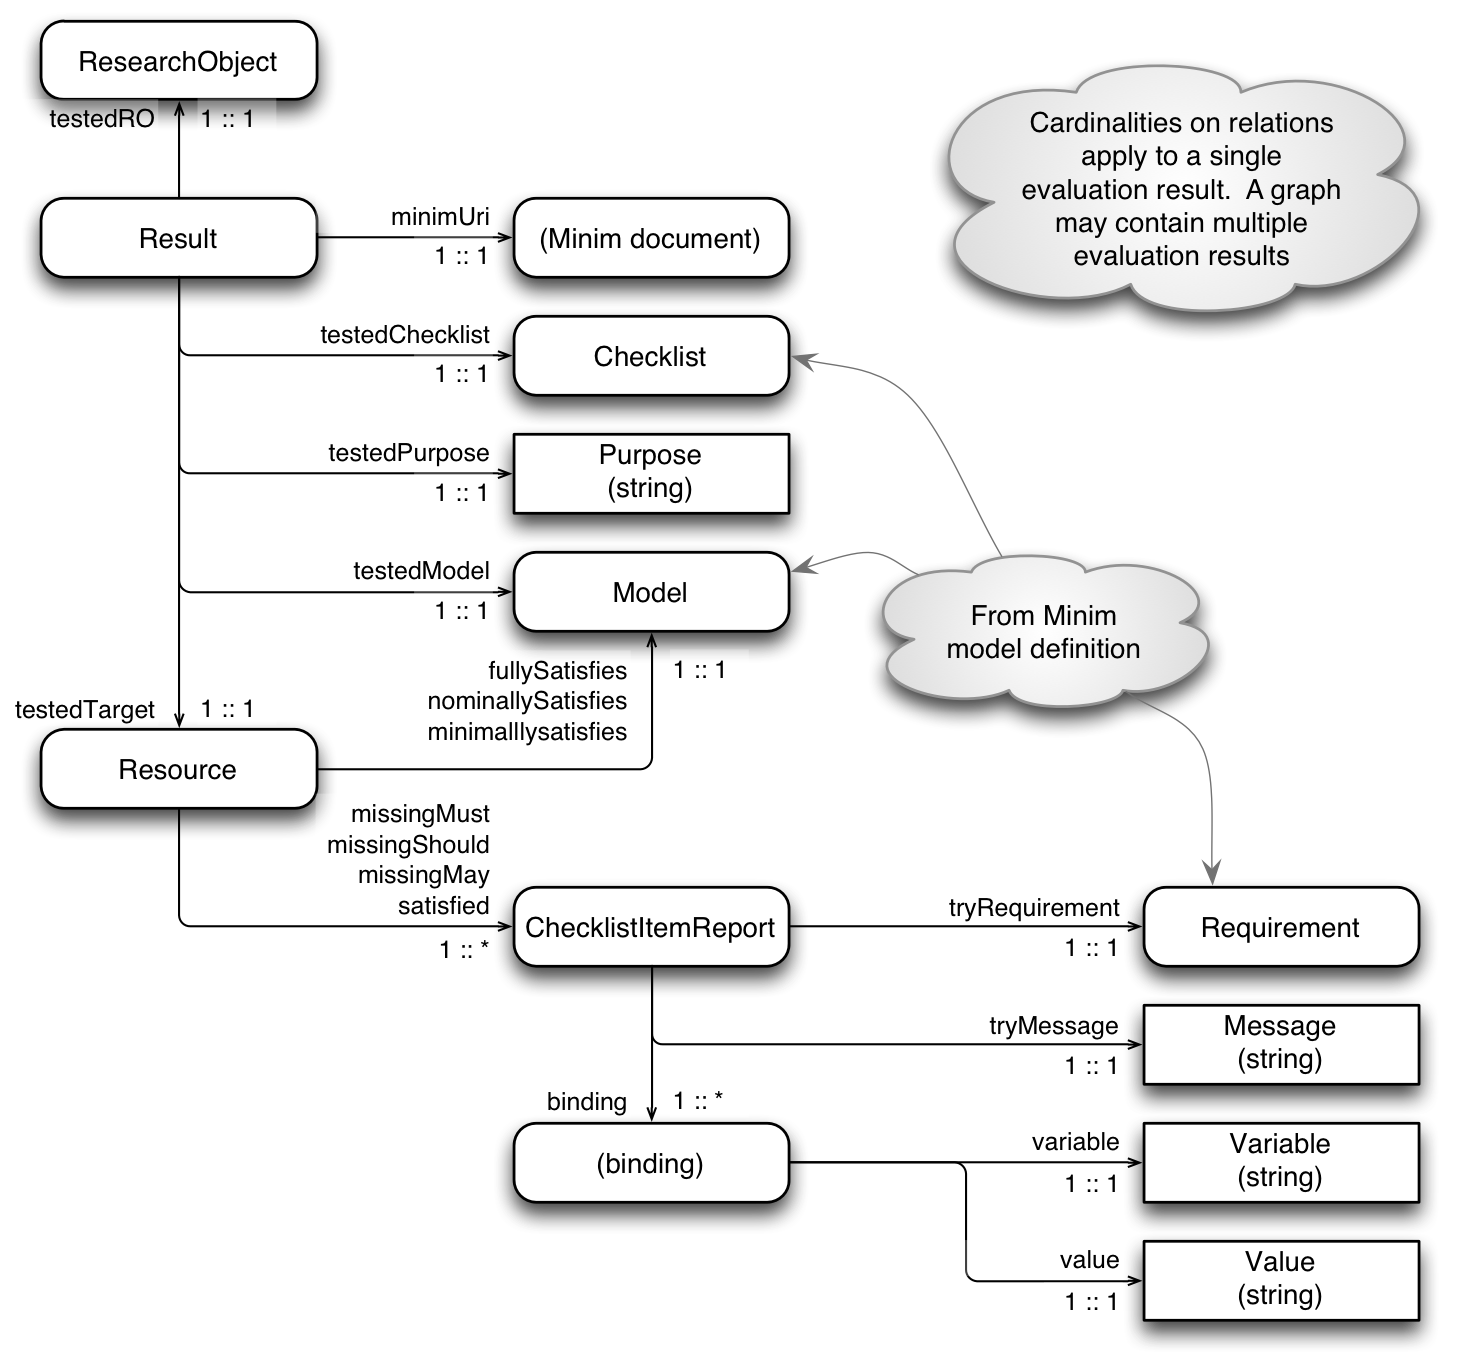
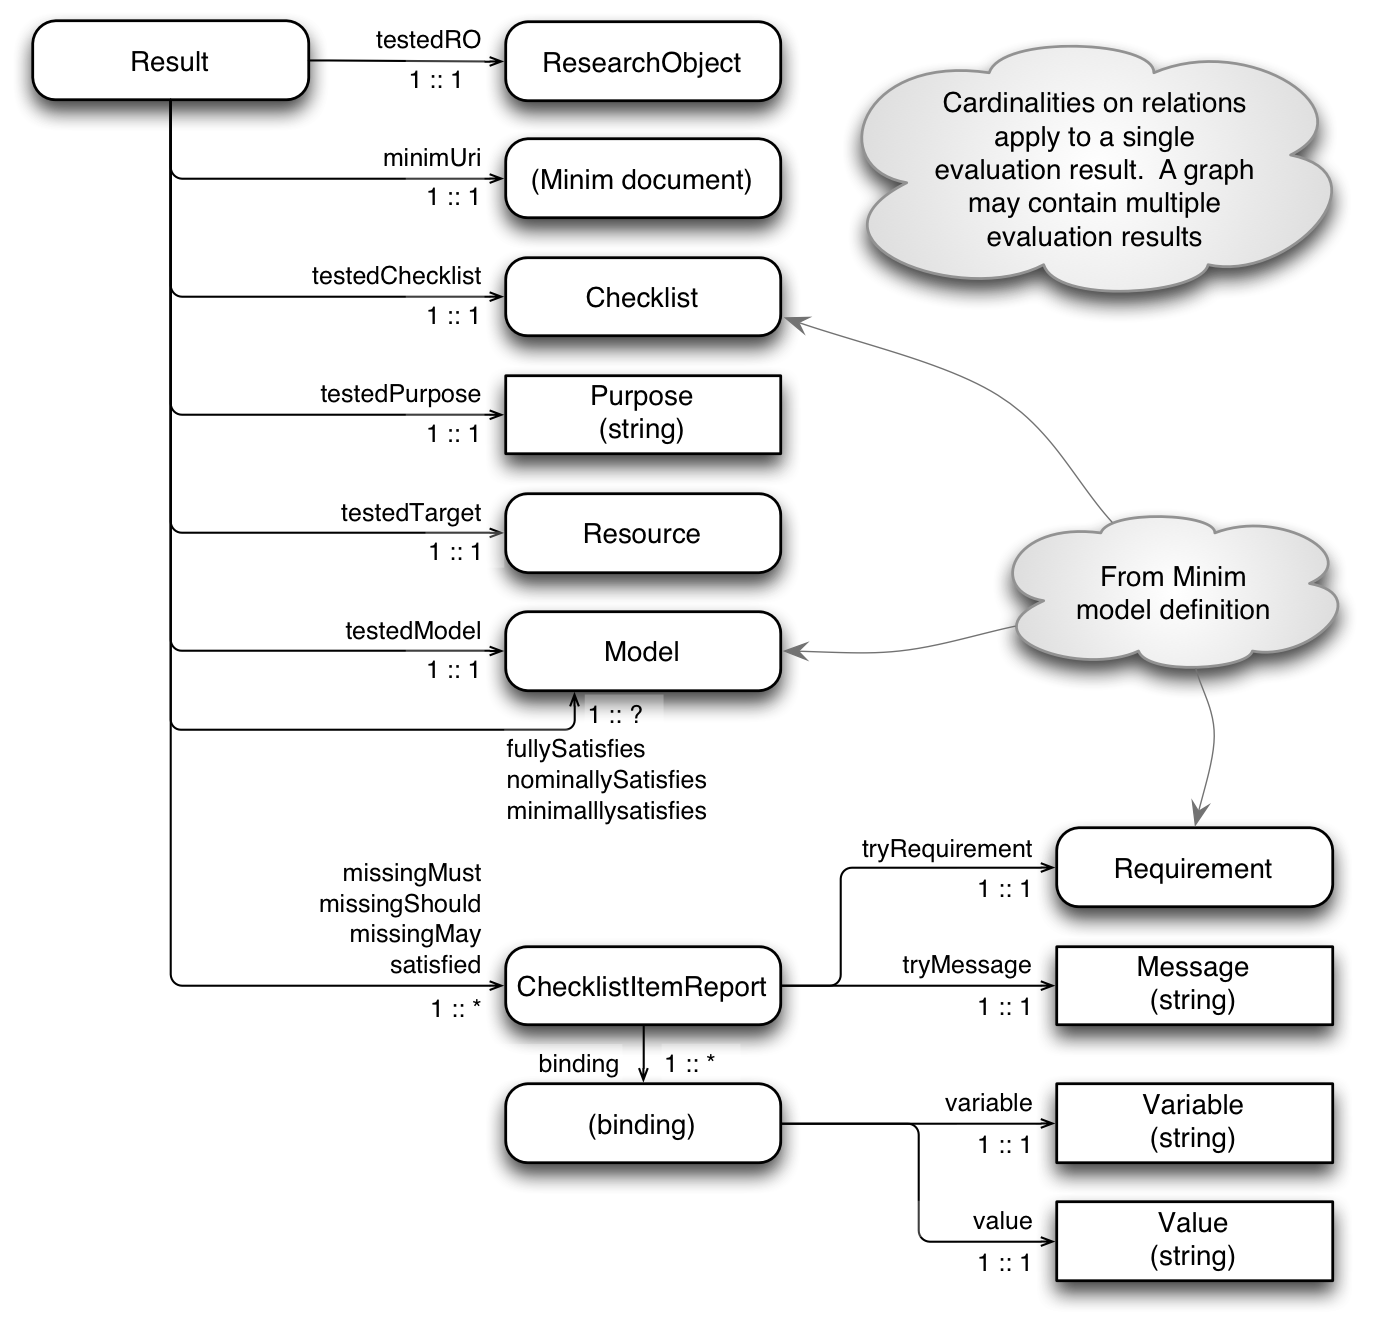
Further revise results ontology and definitions; about to start re-working code tghat uses them

Changed region(s): [[0.0, 0.0, 0.9949, 0.9924], [0.5907, 0.031, 0.9949, 0.2481], [0.9017, 0.3722, 0.9328, 0.4032]]

diff --git a/src/iaeval/ro_eval_minim.py b/src/iaeval/ro_eval_minim.py
@@ -587,23 +587,27 @@ def evalResultGraph(graph, evalresult):
     graph.bind("dcterms", DCTERMS.baseUri)
     graph.bind("result",  RESULT.baseUri)
     graph.bind("minim",   MINIM.baseUri)
-    rouri     = rdflib.URIRef(evalresult['rouri'])
-    targeturi = rdflib.URIRef(resolveUri(evalresult['target'], evalresult['rouri']))
+    rouri      = rdflib.URIRef(evalresult['rouri'])
+    targeturi  = rdflib.URIRef(resolveUri(evalresult['target'], evalresult['rouri']))
+    resultnode = rdflib.BNode()
     graph.add( (rouri, DCTERMS.identifier,     rdflib.Literal(evalresult['roid']))         )
     graph.add( (rouri, RDFS.label,             rdflib.Literal(evalresult['title']))        )
     graph.add( (rouri, DCTERMS.title,          rdflib.Literal(evalresult['title']))        )
     graph.add( (rouri, DCTERMS.description,    rdflib.Literal(evalresult['description']))  )
+    graph.add( (targeturi, DCTERMS.identifier, rdflib.Literal(evalresult['targetid']))     )
+    graph.add( (targeturi, RDFS.label,         rdflib.Literal(evalresult['targetlabel']))  )
+    # @@TODO: associate with result, not RO;  add testedRO link
     graph.add( (rouri, MINIM.testedChecklist,  rdflib.URIRef(evalresult['constrainturi'])) )
     graph.add( (rouri, MINIM.testedPurpose,    rdflib.Literal(evalresult['purpose']))      )
     graph.add( (rouri, MINIM.testedTarget,     targeturi)                                  )
     graph.add( (rouri, MINIM.testedModel,      rdflib.URIRef(evalresult['modeluri']))      )
     graph.add( (rouri, MINIM.minimUri,         rdflib.URIRef(evalresult['minimuri']))      )
-    graph.add( (targeturi, DCTERMS.identifier, rdflib.Literal(evalresult['targetid']))     )
-    graph.add( (targeturi, RDFS.label,         rdflib.Literal(evalresult['targetlabel']))  )
+    # @@TODO: associate with result, not target
     for level in evalresult['summary']:
         log.info("RO %s, level %s, model %s"%(rouri,level,evalresult['modeluri']))
         graph.add( (targeturi, level, rdflib.URIRef(evalresult['modeluri'])) )
     # Add details for all items tested...
+    # @@TODO: associate with result, not target
     def addRequirementsDetail(satisfied, results, satlevel):
         for (req, binding) in results:
             b = rdflib.BNode()

diff --git a/src/iaeval/ro_minim.py b/src/iaeval/ro_minim.py
@@ -60,10 +60,12 @@ MINIM      = ro_namespaces.makeNamespace(minimnsuri,
             , "AccessibilityTest", "isLiveTemplate"
             , "ExistsTest", "exists"            ### @@this is structly redundant - drop it?
             # Result properties
+            , "Result"
+            , "minimUri"
+            , "testedChecklist", "testedPurpose", "testedTarget", "testedModel", "testedRO"
             , "minimallySatisfies", "nominallySatisfies", "fullySatisfies"
             , "satisfied", "missingMay", "missingShould", "missingMust"
-            , "testedChecklist", "testedPurpose", "testedTarget", "testedModel"
-            , "minimUri"
+            , "ChecklistItemReport"
             , "tryRequirement", "tryMessage"
             ])
 
